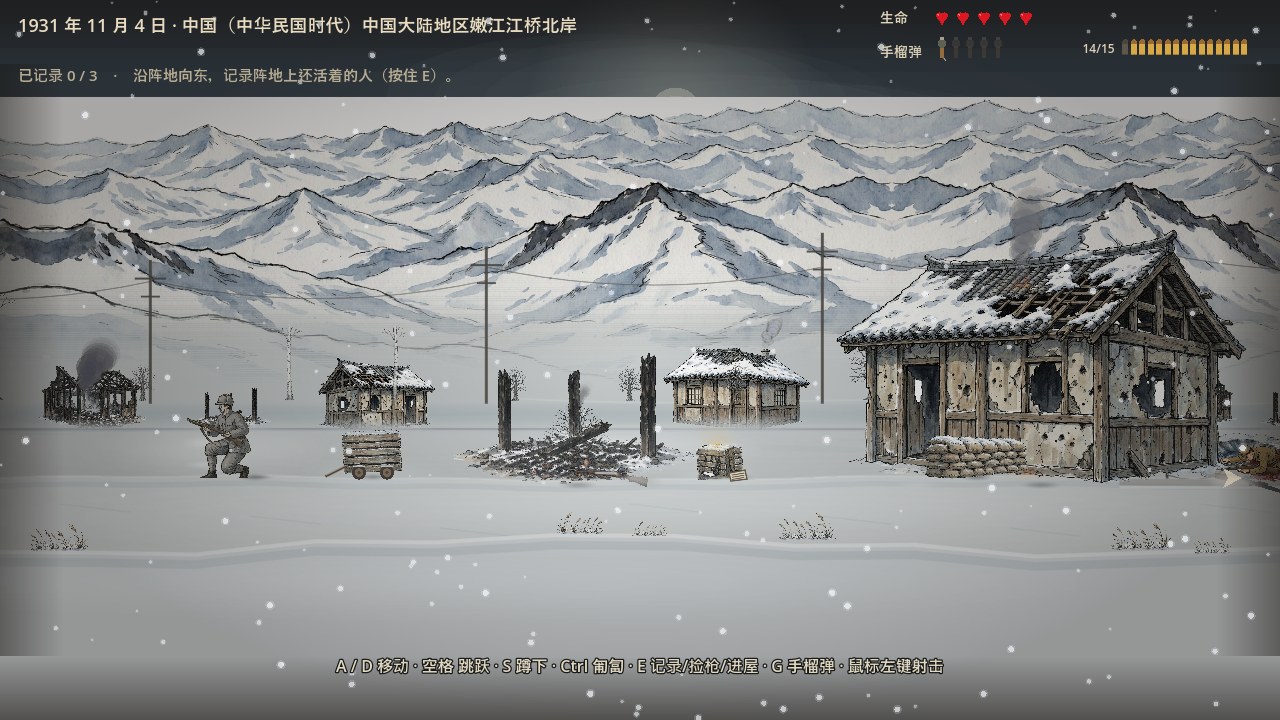
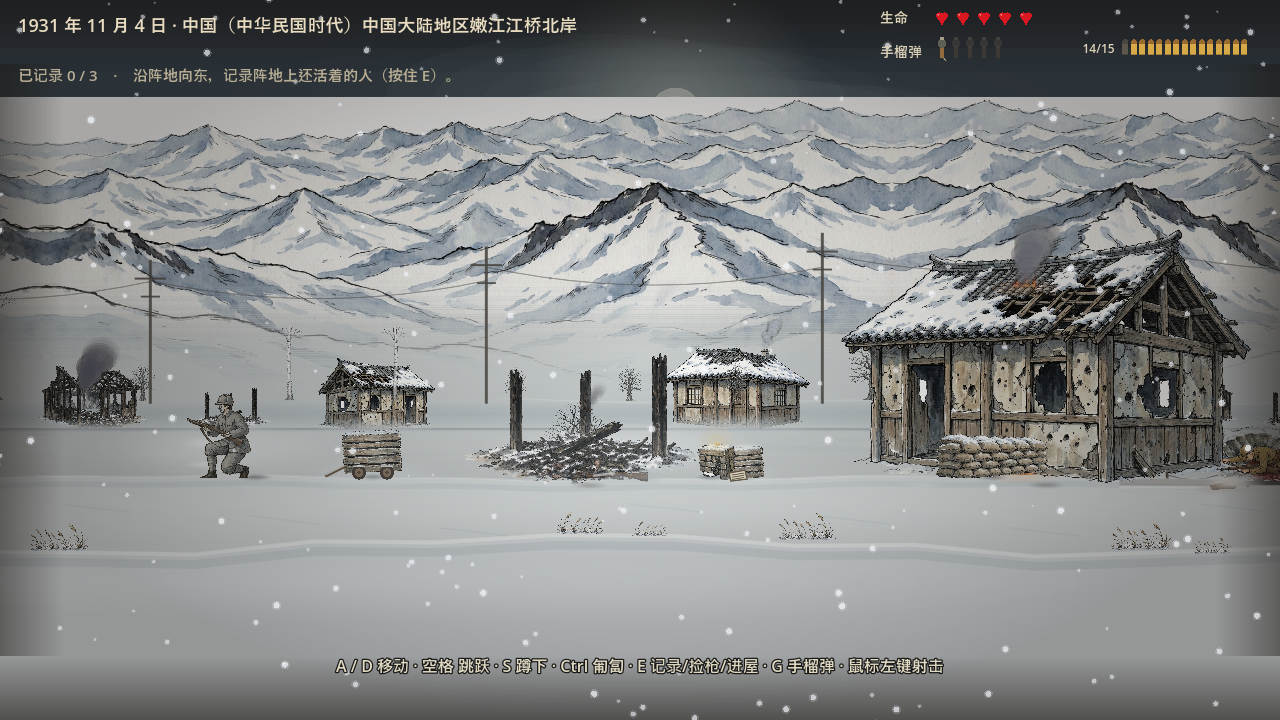
v3.22 the pyramid was a bunker, and the last bridge pass went too far
The player sent the bridge back as a cardboard cutout, and the pyramid was
back with it. Two different things were going on.

The bridge: the last pass compressed the shading into almost nothing and
the span turned into a flat silhouette. The tone compression is eased off
again (gamma 0.44 to 0.72, amplitude 0.27 to 0.44, blur 2.8 to 1.8) so the
steel has its volume back, and the cool grey stays.

The pyramid: it was never the bridge. It is the bunker, drawn as one flat
grey trapezoid with two hard black rectangles for the firing slots and
flat polygons for the highlight and the snow cap. It was the only object
on the field with no texture at all, and a grey cutout standing in the
watercolour snow read as a pyramid dropped in from another game. It is
faced with the real sandbag texture now, cropped with
DrawTextureRectRegion so the bags keep their natural size, and the
firing slot is a soft scorched gouge instead of a rectangle of ink.

The crater read as a puddle: the bowl of crater.png is dark blue and the
code squashed it to 45 percent height, so the blue interior became a thin
band lying on the snow. The art is remapped - the bowl is turned earth,
the rim stays cold snow - and the squash is eased to 58 percent.

The row of blue patches on the ground was the footprints. footprint.png is
a whole patch of snow with a boot print in it, and the whole patch was
being stamped as the footprint, so at 26 pixels all that survived was a
[…]

diff --git a/scripts/JiangqiaoLevel.cs b/scripts/JiangqiaoLevel.cs
@@ -3087,12 +3087,20 @@ public partial class JiangqiaoLevel : Node2D
 
         private Texture2D _craterTex;
 
+        private static Texture2D _bunkerSackTex;
+
+        private static Texture2D BunkerSackTex()
+        {
+            _bunkerSackTex ??= GD.Load<Texture2D>("res://assets/art/props/sandbags.png");
+            return _bunkerSackTex;
+        }
+
         private void DrawCraters()
         {
             // craters are generated watercolor textures now. The old stacked
             // ellipses read like a flat bullseye pancake, totally off from the
             // hand-drawn style of everything else on the field.
-            _craterTex ??= GD.Load<Texture2D>("res://assets/art/props/crater.png");
+            _craterTex ??= GD.Load<Texture2D>("res://assets/art/props/crater_painted.png");
             if (_craterTex == null) return;
             var tsz = _craterTex.GetSize();
             for (int i = 0; i < _craterX.Length; i++)
@@ -3105,7 +3113,12 @@ public partial class JiangqiaoLevel : Node2D
                 bool flip = (i % 2 == 1);
                 float jitter = 1f + Mathf.Sin(x * 0.37f) * 0.06f;
                 float w = r * 3.0f * jitter;
-                float hEff = w * tsz.Y / tsz.X * 0.45f;
+                // v3.22: squashed to 45% the dark interior of the hole became
+                // a thin navy band and the whole thing read as a puddle of
+                // water lying on the snow. The art is remapped now (dark
+                // earth in the bowl, cold snow on the rim) and the squash is
+                // eased off so the bowl keeps its depth.
+                float hEff = w * tsz.Y / tsz.X * 0.58f;
                 float sx = flip ? -1f : 1f;
                 DrawSetTransform(new Vector2(x, GroundY + 3f), 0, new Vector2(sx, 1f));
                 DrawTextureRect(_craterTex, new Rect2(-w * 0.5f, -hEff, w, hEff), false);
@@ -3358,82 +3371,55 @@ public partial class JiangqiaoLevel : Node2D
                 DrawLine(new Vector2(x + 18, GroundY - 1), new Vector2(x + 60, GroundY - 12), new Color(0.22f, 0.20f, 0.18f), 2f, true);
             }
 
-            // 碉堡（梯形混凝土 + 射击孔 + 积雪）：1931 江桥阵地的土木碉堡
+            // 碉堡（沙袋砌成的土木掩体 + 射击孔 + 积雪）：1931 江桥阵地的土木碉堡
+            // v3.22: this used to be one flat grey polygon with a hard black
+            // rectangle for the firing slot. It was the only untextured
+            // object on the whole field and the player read it as a grey
+            // pyramid dropped in the snow next to the burnt house.
+            //
+            // It is faced with the real sandbag texture now, cropped with
+            // DrawTextureRectRegion so the bags keep their natural size
+            // instead of being squashed, and the firing slot is a soft dark
+            // gouge rather than a rectangle of ink.
             for (int bi = 0; bi < _bunkerX.Length; bi++)
             {
                 float bx = _bunkerX[bi];
                 float bw = _bunkerBW[bi];
                 float fh = _bunkerFH[bi];
-                float k = bw / 56f;   // the shape below was drawn against a 56 wide bunker
+
                 // 接触阴影（先画，在碉堡下面）
-                SnowShadow.Draw(this, new Vector2(bx + 24f * k, GroundY - 1f), 40f * k, 0.28f);
+                SnowShadow.Draw(this, new Vector2(bx + bw * 0.5f, GroundY - 1f), bw * 0.55f, 0.26f);
 
-                // 碉堡本体：梯形（前窄后宽）
-                var bunker = new[]
+                // 碉堡本体：沙袋砌面
+                var bags = BunkerSackTex();
+                if (bags != null)
                 {
-                    new Vector2(bx + 28f * k, GroundY),
-                    new Vector2(bx + bw + 28f * k, GroundY),
-                    new Vector2(bx + bw + 10f * k, GroundY - fh),
-                    new Vector2(bx + 46f * k, GroundY - fh),
-                };
-                DrawColoredPolygon(bunker, new Color(0.48f, 0.46f, 0.42f));
-                // v3.17: it was one flat polygon with nothing on it, so the
-                // bunker read as a grey sticker dropped on the snow. Add the
-                // concrete joints and the weather stain so it reads as a
-                // poured earthwork instead.
-                for (int j = 1; j <= 2; j++)
-                {
-                    float jx = bx + (28f + bw * 0.26f * j) * k;
-                    DrawLine(new Vector2(jx, GroundY - 3f), new Vector2(jx + 4f * k, GroundY - fh + 2f),
-                        new Color(0.36f, 0.34f, 0.31f, 0.55f), 1.3f, true);
+                    var bsz = bags.GetSize();
+                    float k = fh / bsz.Y;                 // 沙袋保持原尺寸
+                    float srcW = Mathf.Min(bsz.X, bw / k);
+                    float srcX = (bsz.X - srcW) * 0.5f;
+                    DrawTextureRectRegion(bags, new Rect2(bx, GroundY - fh, bw, fh),
+                        new Rect2(srcX, 0f, srcW, bsz.Y));
                 }
-                DrawColoredPolygon(new[]
-                {
-                    new Vector2(bx + 28f * k, GroundY),
-                    new Vector2(bx + bw + 28f * k, GroundY),
-                    new Vector2(bx + bw + 22f * k, GroundY - fh * 0.26f),
-                    new Vector2(bx + 34f * k, GroundY - fh * 0.26f),
-                }, new Color(0.40f, 0.38f, 0.35f, 0.55f));
-                // 侧面受光（高光条）
-                var hl = new[]
-                {
-                    new Vector2(bx + bw + 10f * k, GroundY - fh),
-                    new Vector2(bx + bw + 28f * k, GroundY),
-                    new Vector2(bx + bw + 34f * k, GroundY),
-                    new Vector2(bx + bw + 16f * k, GroundY - fh),
-                };
-                DrawColoredPolygon(hl, new Color(0.58f, 0.56f, 0.52f));
-                // 碉堡描边
-                DrawPolyline(new[]
-                {
-                    new Vector2(bx + 28f * k, GroundY), new Vector2(bx + 46f * k, GroundY - fh),
-                    new Vector2(bx + bw + 10f * k, GroundY - fh), new Vector2(bx + bw + 28f * k, GroundY),
-                }, new Color(0.20f, 0.19f, 0.17f, 0.85f), 1.6f, true);
 
-                // 射击孔（暗色长条 + 十字线表示射击位）
-                float spx = bx + 38f * k; float spy = GroundY - fh * 0.58f;
-                DrawRect(new Rect2(spx, spy, 22f * k, 10f * (fh / 38f)), new Color(0.08f, 0.09f, 0.10f, 0.95f));
-                DrawLine(new Vector2(spx + 11f * k, spy), new Vector2(spx + 11f * k, spy + 10f * (fh / 38f)),
-                    new Color(0.40f, 0.38f, 0.34f, 0.7f), 1.4f, true);
-                DrawLine(new Vector2(spx, spy + 5f * (fh / 38f)), new Vector2(spx + 22f * k, spy + 5f * (fh / 38f)),
-                    new Color(0.40f, 0.38f, 0.34f, 0.7f), 1.4f, true);
+                // 射击孔：被熏黑的一道凹槽（软边，不是硬黑矩形）
+                // the blob sprite is a 40x40 unit square, so the scale here is
+                // the wanted size divided by 40 - get that wrong and the
+                // blob covers the whole emplacement in one white slab.
+                DrawSetTransform(new Vector2(bx + bw * 0.52f, GroundY - fh * 0.58f), 0,
+                    new Vector2(bw * 0.30f / 40f, fh * 0.10f / 40f));
+                DrawTextureRect(SoftSnow.Blob(new Color(0.13f, 0.12f, 0.11f), 0.92f),
+                    new Rect2(-20f, -20f, 40f, 40f), false);
+                DrawSetTransform(Vector2.Zero, 0, Vector2.One);
 
-                // 碉堡顶上的积雪（梯形积雪帽）
-                var snow = new[]
-                {
-                    new Vector2(bx + 43f * k, GroundY - fh - 1),
-                    new Vector2(bx + bw + 12f * k, GroundY - fh - 1),
-                    new Vector2(bx + bw + 6f * k, GroundY - fh - 6),
-                    new Vector2(bx + 49f * k, GroundY - fh - 6),
-                };
-                DrawColoredPolygon(snow, new Color(0.92f, 0.94f, 0.94f, 0.9f));
-                DrawPolyline(new[]
-                {
-                    new Vector2(bx + 43f * k, GroundY - fh - 1),
-                    new Vector2(bx + bw + 12f * k, GroundY - fh - 1),
-                }, new Color(0.98f, 0.99f, 0.99f), 2.2f, true);
+                // 顶上的积雪
+                DrawSetTransform(new Vector2(bx + bw * 0.5f, GroundY - fh - 1f), 0,
+                    new Vector2(bw * 0.95f / 40f, fh * 0.10f / 40f));
+                DrawTextureRect(SoftSnow.Blob(new Color(0.94f, 0.96f, 0.97f), 0.88f),
+                    new Rect2(-20f, -20f, 40f, 40f), false);
+                DrawSetTransform(Vector2.Zero, 0, Vector2.One);
 
-                // 碉堡旁边的铁丝网桩（一根木桩 + 一根铁丝连到远处）
+            // 碉堡旁边的铁丝网桩（一根木桩 + 一根铁丝连到远处）
                 float fx = bx - 30f;
                 DrawLine(new Vector2(fx, GroundY), new Vector2(fx - 2, GroundY - 52),
                     new Color(0.30f, 0.28f, 0.26f), 2.8f, true);

diff --git a/scripts/FootprintLayer.cs b/scripts/FootprintLayer.cs
@@ -138,7 +138,10 @@ public partial class FootprintLayer : Node2D
 
     public override void _Draw()
     {
-        _tex ??= GD.Load<Texture2D>("res://assets/art/props/footprint.png");
+        // v3.22: this was the whole snow patch, so a trail of them read as a row
+        // of blue puddles lying on the snow. The new asset is just the boot
+        // print, remapped to the colour of the snow it presses into.
+        _tex ??= GD.Load<Texture2D>("res://assets/art/props/bootprint.png");
         if (_tex == null) return;
         var tsz = _tex.GetSize();
 

diff --git a/README.md b/README.md
@@ -172,6 +172,24 @@
 - **离屏指引箭头收敛**：纸色箭头透明度 0.9→0.55、缩小约 25%——它扫过场景道具（比如正压在拾取枪上）时不再像场景里的一部分，一眼可辨是 HUD 提示。
 - **图库全量实机刷新（11/11）**：新增 `scripts/CaptureMap.cs` + `scenes/CaptureMap.tscn` 自动巡游标题屏与大地图全流程（读两张纸条→路线显影，结束后还原存档的已读状态），v00–v04 五张 v3.1 时代的旧图全部换成实机新图；v46–v51 六张关卡图同批重拍。README 截图缓存戳统一升到 `?v=3.11`。
 
+### v3.22 碉堡重做 + 弹坑 + 足迹 + 桥回炉
+
+> 用户复检：「你搞到这样的给我？」「这个类似金字塔的东西又出现了 而且那个弹坑怪怪的 你确定？」「这边也有」
+
+- **① 上一版的桥过头了**：v3.21 把桥的明暗压得太扁，结果成了一张**纸板剪影**——用户直接贴了截图回来。这版把色阶压缩放松（γ 0.44→0.72、幅度 0.27→0.44、模糊 2.8→1.8），**桥重新有了体积**，同时保留冷灰的调子。
+- **② "金字塔"的真凶是碉堡，不是桥**：`DrawColoredPolygon` 画的一个**纯灰梯形**（前窄后宽）+ 两个**硬边黑色矩形**射击孔 + 平涂的"高光条"和"积雪帽"——**全场上唯一一个没有贴图的物件**，贴在水彩堆里就像一张硬纸板剪影。现在改用**真的沙袋贴图**（`sandbags.png`），用 `DrawTextureRectRegion` 裁一段保持沙袋原始大小，射击孔改成柔和的熏黑凹槽，顶部积雪用软斑。
+- **③ 弹坑像水洼**：`crater.png` 的坑底是**深蓝**的，而且代码把它压到 **45% 高度**，深蓝的坑底被压成一条窄带 → 看着像一滩水。素材重映射（去蓝 55%、坑底偏暖成翻出来的土、坑口保持冷白），压缩放松到 **58%**。
+- **④ 地上那排蓝色斑块是足迹**：`footprint.png` 整张图是"**一块雪斑 + 一个靴印**"，代码整张当足迹画，26px 尺寸下只剩一团**淡蓝色雪斑**，看着像一排水洼。现在切出靴印本身（`bootprint.png`）并重映射成"雪地里的压痕"：墨线保持深、亮部推到雪色、外围雪斑的 alpha 压到 0.28。
+- **⑤ 自己的一个 bug**：改碉堡时把 `SoftSnow.Blob` 的缩放写错了——那张雪斑精灵是 **40×40 单位**，缩放系数要除以 40，我按"像素尺寸"直接填了，于是**一块 1600×124 的大白片整个盖住了碉堡**。已改回 `尺寸/40`。
+- **⑥ 地图页五张图实测差异 0.00%–0.17%，与本次无关，一张未动**；六张关卡图重拍并把缓存戳升到 `?v=3.22`。
+
+| 项目 | 改动前 | 改动后 |
+|------|--------|--------|
+| 桥 | 纸板剪影（明暗压太扁） | 保留体积的冷灰钢架 |
+| 碉堡 | 纯灰梯形 + 硬黑矩形 | 沙袋贴图砌面 + 柔和射击孔 |
+| 弹坑 | 深蓝压扁，像水洼 | 土色坑底 + 冷白雪口 |
+| 足迹 | 整块蓝雪斑 | 雪地里的靴印压痕 |
+
 ### v3.21 尸体躺平（倾角补偿符号反了）+ 桥的画风
 
 > 用户复检：「那个尸体是怪怪的 而且不符合逻辑」「那个烧毁的房子和日本兵后面那个类似金字塔的东西是什么？风格也不同啊 你放在那边怪怪的」
@@ -413,7 +431,7 @@
 
 | 版本 | 要点 |
 |------|------|
-| v3.21 | 尸体躺平 + 桥的画风：①`corpse_ija_supine` 的**身体主轴实测 +18.10°**（用 alpha 轮廓二阶矩量），v3.19 的补偿数字取自底边轮廓扫描（10.66°）且**符号反了**，等于把角度叠上去 → 渲染斜近 29° 像半坐的伤兵；现在按主轴角抵消（旋转取反号、镜像时再翻一次）；②旋转支点从身体一端改到**身体正中**（原代码注释写的是 center，写的却是 `HeadSign()*len*0.5`），脚那头不再被甩离雪面；③五具预置尸体的姿势**改为关卡写死**（1270 俯卧/2505 仰卧/1550 俯卧/3870 仰卧/4300 俯卧），此前每次开局重掷导致「这局看着对、下局就坏了」；④桥贴图 `bridge.png` 是**写实 3D 渲染**，跟全场水彩不搭（玩家说的「金字塔」= 桁架 + 桥墩三角破冰尖角）→ 预处理 `bridge_painted.png`：模糊 + 明暗压色阶（γ0.44）+ 淡冷灰（近雪面更雾）+ 叠 7% 淡蓝雾；⑤地图五图差异 0.00%–0.19% 未动，六张关卡图重拍 |\n| v3.20 | 门口的黑色平板（门标记画成了贴纸）：①`EnterableHouse` 里 v3.5 起画的那块 `DrawRect` 近黑板是全场唯一平涂色块，格格不入；②它正好盖住贴图里画好的门（完好房的棕色木板门带圆把手、残破房撕开的门洞透白光），黑板高度只有门洞七成，门洞上沿露在黑板上方看着像塞了块板；③平板按 `_w*0.18` 摆而完好房的门画在 0.479–0.531，位置也对不上 → 整块删掉，门口改为按贴图逐张记的 `DoorSpec`（完好房 0.492 / 残破房 0.200），`DoorX` 触发点同步修正；④烧毁房架没门可寻，把完好房贴图里那扇木板门切出成 `door_leaf.png` 挂回焦黑门框（同笔触、略倾斜、熏黑一点）；⑤地图五图差异 0.00%–0.15% 未动，六张关卡图重拍 |\n| v3.19 | 桥面白线 + 尸体摆平 + 房屋比例 + 辎重车画风：①删掉 DrawBridge 里那条从 4406 画到 5194 的 3px 纯白直线（浮在桁架上方、与雪山不同调的亮streak）；②尸体贴图自身就带 -4.1°~+10.7° 倾角，代码又叠最多 12.6° 随机旋转 → 双重倾斜像从坡上滑下来，现用 `_texTilt` 抵消贴图倾角、随机收到 ±3.4°；③远景屋重排（house_intact@285 与 village@470 只差 1px、屋顶咬合；@2990 与 house_posts@3040 重叠 30px）→ 全部留出间隙；④完整房墙高实测只有士兵 1.03 倍（v3.5 量的是到屋脊不是到墙）→ 房放大 1.25×、兵缩到 0.87（108→94px），墙高 1.49 倍人高，沙包 54→47、碉堡 96×62→84×54、尸体长度同步缩小，房屋位置微调 40–64px 不再重叠；⑤辎重车整只平涂矩形+纯色圆盘 → 车身改用 crate.png 贴图（同一支画笔）+ 辐条轮 + 断车把，并从独立节点改到 GroundArt 里跟弹坑木箱一起画，轨道从身后过；⑥地图五图零差异未动 |
+| v3.22 | 碉堡重做 + 弹坑 + 足迹 + 桥回炉：①v3.21 桥的明暗压太扁成了**纸板剪影**（用户贴图回来），色阶压缩放松（γ0.44→0.72、幅度 0.27→0.44、模糊 2.8→1.8）恢复体积；②**「金字塔」真凶是碉堡不是桥**——`DrawColoredPolygon` 画的纯灰梯形 + 硬边黑矩形射击孔，是全场唯一没贴图的物件 → 改用 `sandbags.png` 真沙袋贴图（`DrawTextureRectRegion` 裁一段保持原始大小）+ 柔和熏黑射击孔 + 软斑积雪；③`crater.png` 坑底是深蓝且被压到 45% 高，看着像一滩水 → 素材重映射（去蓝 55%、坑底偏暖、坑口冷白）+ 压缩放松到 58%；④`footprint.png` 整张是「一块雪斑+一个靴印」，26px 下只剩淡蓝雪斑，像一排水洼 → 切出靴印 `bootprint.png` 重映射成雪地压痕；⑤自己的 bug：`SoftSnow.Blob` 是 40×40 单位精灵，缩放要除以 40，写错导致 **1600×124 大白片盖住整个碉堡**；⑥地图五图差异 0.00%–0.17% 未动，六张关卡图重拍 |\n| v3.21 | 尸体躺平 + 桥的画风：①`corpse_ija_supine` 的**身体主轴实测 +18.10°**（用 alpha 轮廓二阶矩量），v3.19 的补偿数字取自底边轮廓扫描（10.66°）且**符号反了**，等于把角度叠上去 → 渲染斜近 29° 像半坐的伤兵；现在按主轴角抵消（旋转取反号、镜像时再翻一次）；②旋转支点从身体一端改到**身体正中**（原代码注释写的是 center，写的却是 `HeadSign()*len*0.5`），脚那头不再被甩离雪面；③五具预置尸体的姿势**改为关卡写死**（1270 俯卧/2505 仰卧/1550 俯卧/3870 仰卧/4300 俯卧），此前每次开局重掷导致「这局看着对、下局就坏了」；④桥贴图 `bridge.png` 是**写实 3D 渲染**，跟全场水彩不搭（玩家说的「金字塔」= 桁架 + 桥墩三角破冰尖角）→ 预处理 `bridge_painted.png`：模糊 + 明暗压色阶（γ0.44）+ 淡冷灰（近雪面更雾）+ 叠 7% 淡蓝雾；⑤地图五图差异 0.00%–0.19% 未动，六张关卡图重拍 |\n| v3.20 | 门口的黑色平板（门标记画成了贴纸）：①`EnterableHouse` 里 v3.5 起画的那块 `DrawRect` 近黑板是全场唯一平涂色块，格格不入；②它正好盖住贴图里画好的门（完好房的棕色木板门带圆把手、残破房撕开的门洞透白光），黑板高度只有门洞七成，门洞上沿露在黑板上方看着像塞了块板；③平板按 `_w*0.18` 摆而完好房的门画在 0.479–0.531，位置也对不上 → 整块删掉，门口改为按贴图逐张记的 `DoorSpec`（完好房 0.492 / 残破房 0.200），`DoorX` 触发点同步修正；④烧毁房架没门可寻，把完好房贴图里那扇木板门切出成 `door_leaf.png` 挂回焦黑门框（同笔触、略倾斜、熏黑一点）；⑤地图五图差异 0.00%–0.15% 未动，六张关卡图重拍 |\n| v3.19 | 桥面白线 + 尸体摆平 + 房屋比例 + 辎重车画风：①删掉 DrawBridge 里那条从 4406 画到 5194 的 3px 纯白直线（浮在桁架上方、与雪山不同调的亮streak）；②尸体贴图自身就带 -4.1°~+10.7° 倾角，代码又叠最多 12.6° 随机旋转 → 双重倾斜像从坡上滑下来，现用 `_texTilt` 抵消贴图倾角、随机收到 ±3.4°；③远景屋重排（house_intact@285 与 village@470 只差 1px、屋顶咬合；@2990 与 house_posts@3040 重叠 30px）→ 全部留出间隙；④完整房墙高实测只有士兵 1.03 倍（v3.5 量的是到屋脊不是到墙）→ 房放大 1.25×、兵缩到 0.87（108→94px），墙高 1.49 倍人高，沙包 54→47、碉堡 96×62→84×54、尸体长度同步缩小，房屋位置微调 40–64px 不再重叠；⑤辎重车整只平涂矩形+纯色圆盘 → 车身改用 crate.png 贴图（同一支画笔）+ 辐条轮 + 断车把，并从独立节点改到 GroundArt 里跟弹坑木箱一起画，轨道从身后过；⑥地图五图零差异未动 |
 | v3.18 | 白边根修 + 位置重排：①抠图残留的**轮廓白边**（RGB 仍留 (255,255,255)，背景顺抗锯齿边渗成一指宽纯白带）→ 距离变换 + 纯白判据，21 张贴图全清，榆树一棵 68330 px；②尸体 #5 从桥跨度内（4400–5200）挪到 x=4300 开阔雪地并下沉到路肩，铁轨从身后过；③撤掉整垛堵在桥头（4400/桥台 4386–4470）的沙包 4388；④铁丝网桩改用共享的沙包基底表，落进沙包的桩自动跳过、桥头段不越 4360；⑤辎重车从视差层搬到世界层，重画成木纹车斗 + 六辐条轮 + 车把 + 断轴杆，缩到玩家身高四分之一，站在关卡开头 x=280；⑥丢弃步枪倾角 ±0.85→±0.38 弧度，不再像插着的木棍；⑦全资产连通域普查 + 整关 12 机位实机扫描，榆树残留白块 22→0；地图五图零差异未动 |
 | v3.17 | 铁轨爬桥 + 白底收尾 + 尸体/碉堡比例修正：①铁轨与桥面错位 40px 的真 bug（代码按「贴图 53% 处是桥面」摆放，实测承轨面在第 355 行）→ 改为把第 355 行对到轨道线，铁轨连续爬上桥；②tree_elm 树冠间 9.4 万 px 不透明纯白 → 用「离枝干 > 6px 的亮像素一律抠掉」判据，树冠透空、枝干与枝上雪絮保留；③桁架里 13225 px 近白碎点与半透明白纱再清 22953 px；④尸体长度收 10%（122-138 → 110-124，与士兵身高相当）；⑤碉堡放大 56×38 → 96×62（齐胸高）并加混凝土接缝与污渍，不再是平涂灰板；⑥废弃辎重车整体下沉 30px，轮子陷入雪里 6px；⑦地图五图零差异未动 |
 | v3.16 | 白板根修收尾：①v3.15 只抓「平坦纯白」漏了带渐变的板 → 改为「平坦纯白种籽 + 向内泛洪 + 形态学开运算 + 几何分界保护积雪」，bridge 62031 px / 烧毁屋 44976 px / 骨架屋 66094 px 转透明；②桥面线 y=334.8+0.0588x 以上才算该透空的天空，桥面雪与桥墩原样保留；③house_ruined_near 屋顶积雪同为平坦白，套用会挖穿屋顶，刻意不动；④远景房脚与树脚的 VGradient 矩形雪化带（左右边笔直的白板）换成四边渐隐的 SoftSnow.MeltBand，VGradient 随之删除；⑤远景 4180 那栋缩小的烧毁屋不再是「拖车」状怪东西；⑥地图五图实测零差异未动 |
@@ -510,27 +528,27 @@
 
 **雪原全景 · 同款画风背景贴图合成四层视差（雪山 / 村落 / 树 / 草，layer by layer 厚度感）**
 
-![雪原全景](docs/screenshots/v46_jq_scene.png?v=3.21)
+![雪原全景](docs/screenshots/v46_jq_scene.png?v=3.22)
 
 **立姿据枪 · 枪托抵肩贴腮瞄准 + 枪口火光对齐枪管尖**
 
-![立姿据枪](docs/screenshots/v47_jq_fire.png?v=3.21)
+![立姿据枪](docs/screenshots/v47_jq_fire.png?v=3.22)
 
 **跪蹲持枪 · 军事标准跪姿（S 键）**
 
-![跪蹲持枪](docs/screenshots/v48_jq_crouch.png?v=3.21)
+![跪蹲持枪](docs/screenshots/v48_jq_crouch.png?v=3.22)
 
 **低姿匍匐 · 军事条令低姿匍匐前进（Ctrl/C 键）**
 
-![低姿匍匐](docs/screenshots/v49_jq_prone.png?v=3.21)
+![低姿匍匐](docs/screenshots/v49_jq_prone.png?v=3.22)
 
 **完好房屋 · 烟囱动态炊烟（贴图静态烟已抹除，只剩程序化动态烟）**
 
-![烟囱动态炊烟](docs/screenshots/v51_jq_chimney.png?v=3.21)
+![烟囱动态炊烟](docs/screenshots/v51_jq_chimney.png?v=3.22)
 
 **焚毁村落 · 焦柱断壁 + 动态黑烟 + 残火（程序化演出，非贴图）**
 
-![焚毁村落](docs/screenshots/v50_jq_burnt.png?v=3.21)
+![焚毁村落](docs/screenshots/v50_jq_burnt.png?v=3.22)
 
 ## 如何运行（小白版，3 步）
 
